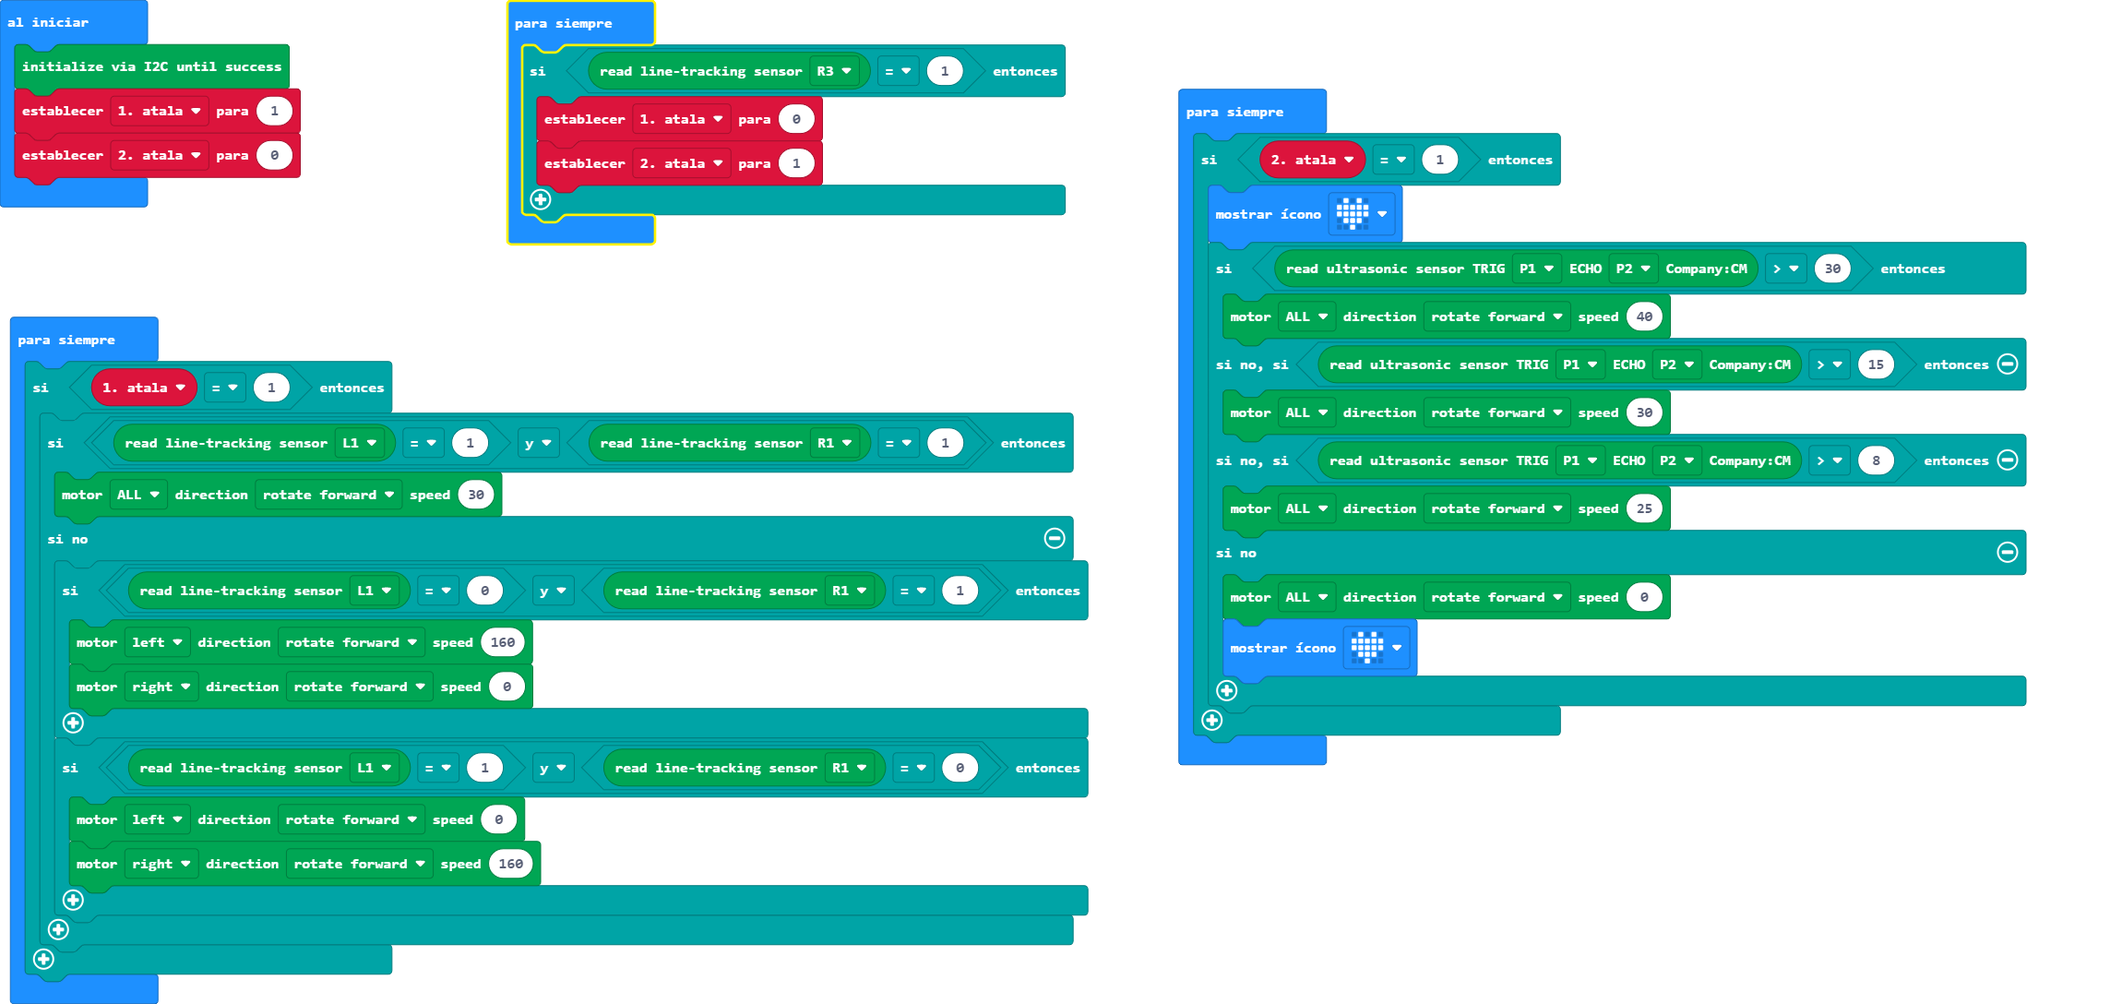
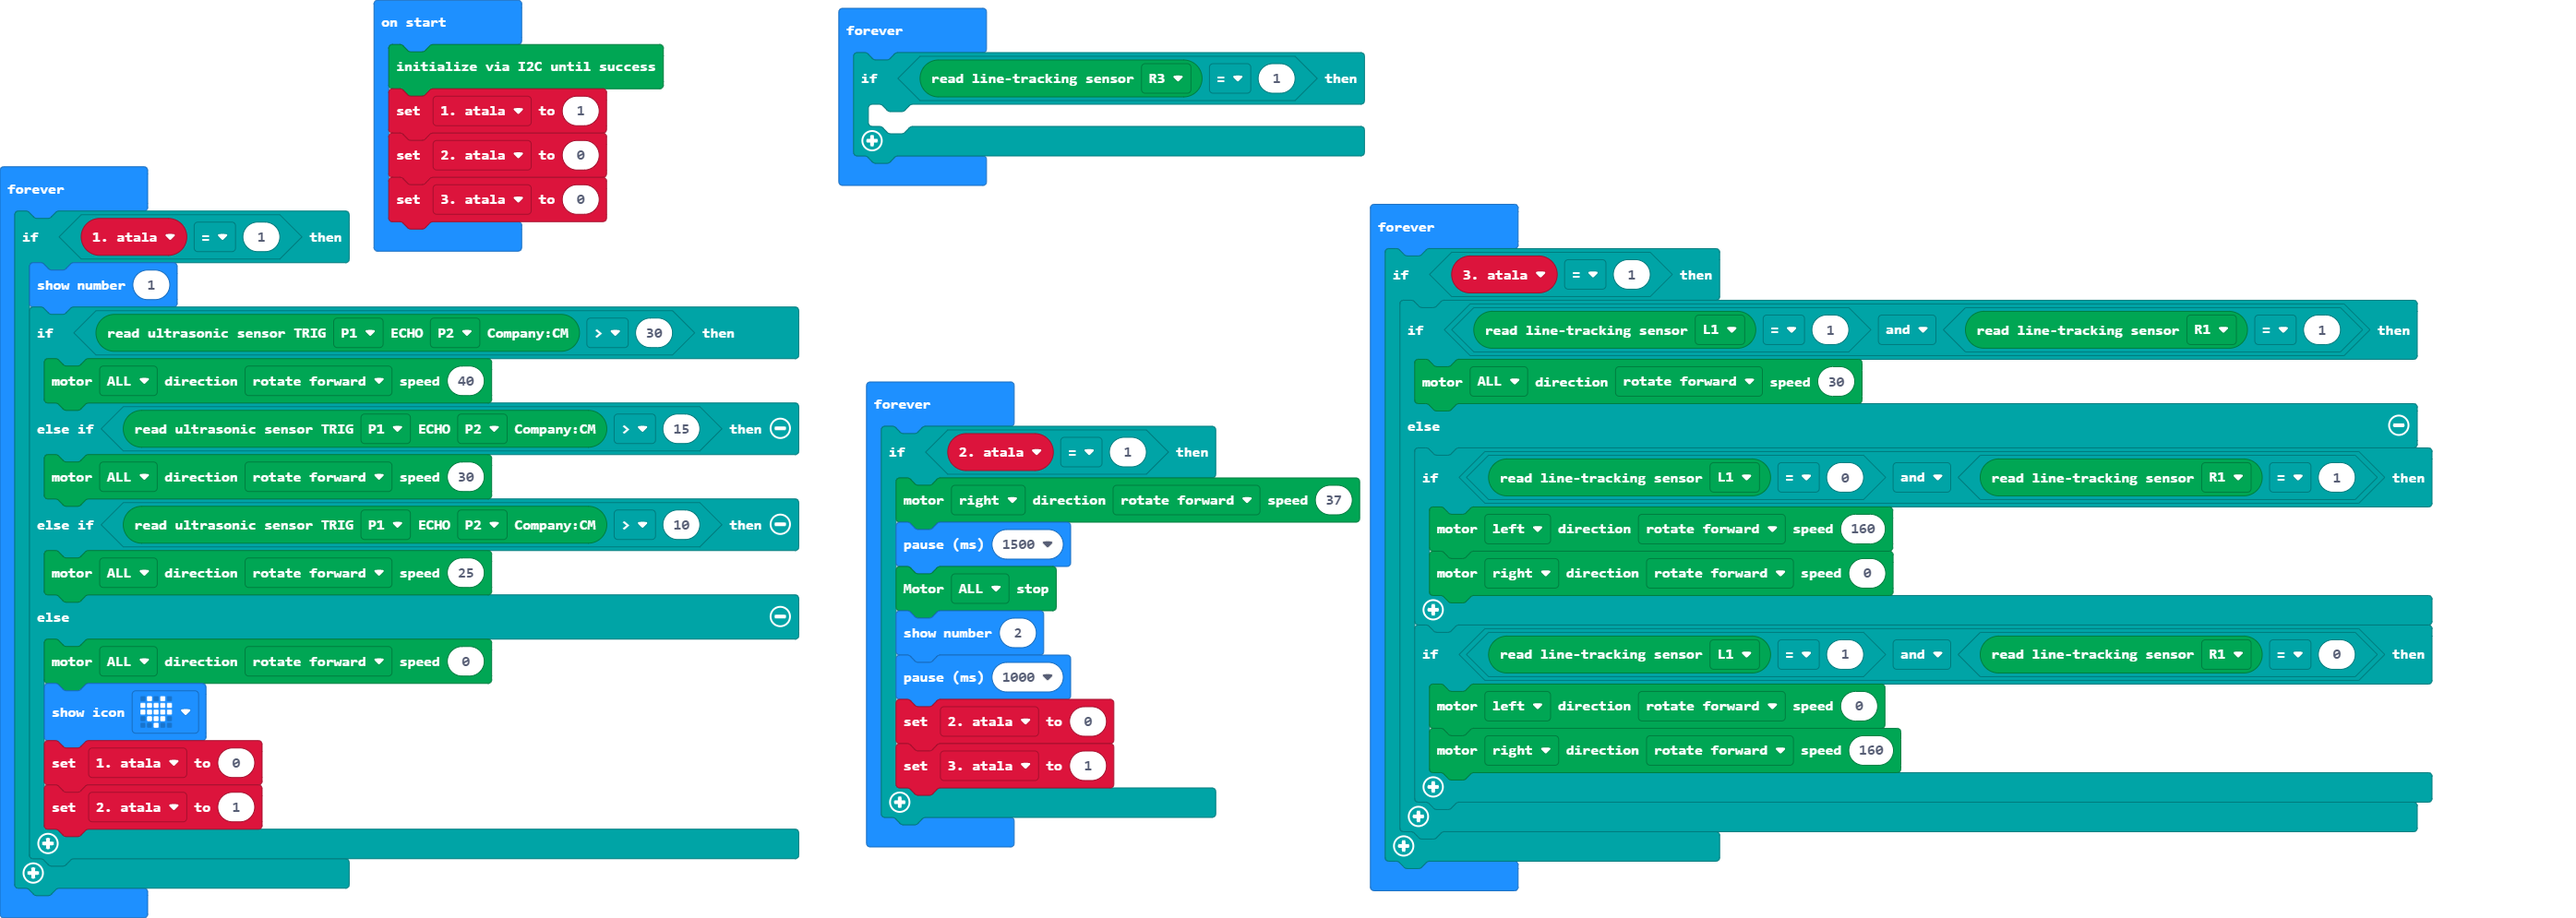
Update main.blocks, main.ts

diff --git a/main.ts b/main.ts
@@ -1,29 +1,31 @@
 DFRobotMaqueenPlus.I2CInit()
 let _1_atala = 1
 let _2_atala = 0
+let _3_atala = 0
 basic.forever(function () {
     if (DFRobotMaqueenPlus.readPatrol(Patrol.R3) == 1) {
-        _1_atala = 0
-        _2_atala = 1
-    }
-})
-basic.forever(function () {
-    if (_2_atala == 1) {
-        basic.showIcon(IconNames.Heart)
-        if (DFRobotMaqueenPlus.ultraSonic(PIN.P1, PIN.P2) > 30) {
-            DFRobotMaqueenPlus.mototRun(Motors.ALL, Dir.CW, 40)
-        } else if (DFRobotMaqueenPlus.ultraSonic(PIN.P1, PIN.P2) > 15) {
-            DFRobotMaqueenPlus.mototRun(Motors.ALL, Dir.CW, 30)
-        } else if (DFRobotMaqueenPlus.ultraSonic(PIN.P1, PIN.P2) > 8) {
-            DFRobotMaqueenPlus.mototRun(Motors.ALL, Dir.CW, 25)
-        } else {
-            DFRobotMaqueenPlus.mototRun(Motors.ALL, Dir.CW, 0)
-            basic.showIcon(IconNames.Heart)
-        }
+    	
     }
 })
 basic.forever(function () {
     if (_1_atala == 1) {
+        basic.showNumber(1)
+        if (DFRobotMaqueenPlus.ultraSonic(PIN.P1, PIN.P2) > 30) {
+            DFRobotMaqueenPlus.mototRun(Motors.ALL, Dir.CW, 40)
+        } else if (DFRobotMaqueenPlus.ultraSonic(PIN.P1, PIN.P2) > 15) {
+            DFRobotMaqueenPlus.mototRun(Motors.ALL, Dir.CW, 30)
+        } else if (DFRobotMaqueenPlus.ultraSonic(PIN.P1, PIN.P2) > 10) {
+            DFRobotMaqueenPlus.mototRun(Motors.ALL, Dir.CW, 25)
+        } else {
+            DFRobotMaqueenPlus.mototRun(Motors.ALL, Dir.CW, 0)
+            basic.showIcon(IconNames.Heart)
+            _1_atala = 0
+            _2_atala = 1
+        }
+    }
+})
+basic.forever(function () {
+    if (_3_atala == 1) {
         if (DFRobotMaqueenPlus.readPatrol(Patrol.L1) == 1 && DFRobotMaqueenPlus.readPatrol(Patrol.R1) == 1) {
             DFRobotMaqueenPlus.mototRun(Motors.ALL, Dir.CW, 30)
         } else {
@@ -36,5 +38,16 @@ basic.forever(function () {
                 DFRobotMaqueenPlus.mototRun(Motors.M2, Dir.CW, 160)
             }
         }
+    }
+})
+basic.forever(function () {
+    if (_2_atala == 1) {
+        DFRobotMaqueenPlus.mototRun(Motors.M2, Dir.CW, 37)
+        basic.pause(1500)
+        DFRobotMaqueenPlus.mototStop(Motors.ALL)
+        basic.showNumber(2)
+        basic.pause(1000)
+        _2_atala = 0
+        _3_atala = 1
     }
 })
